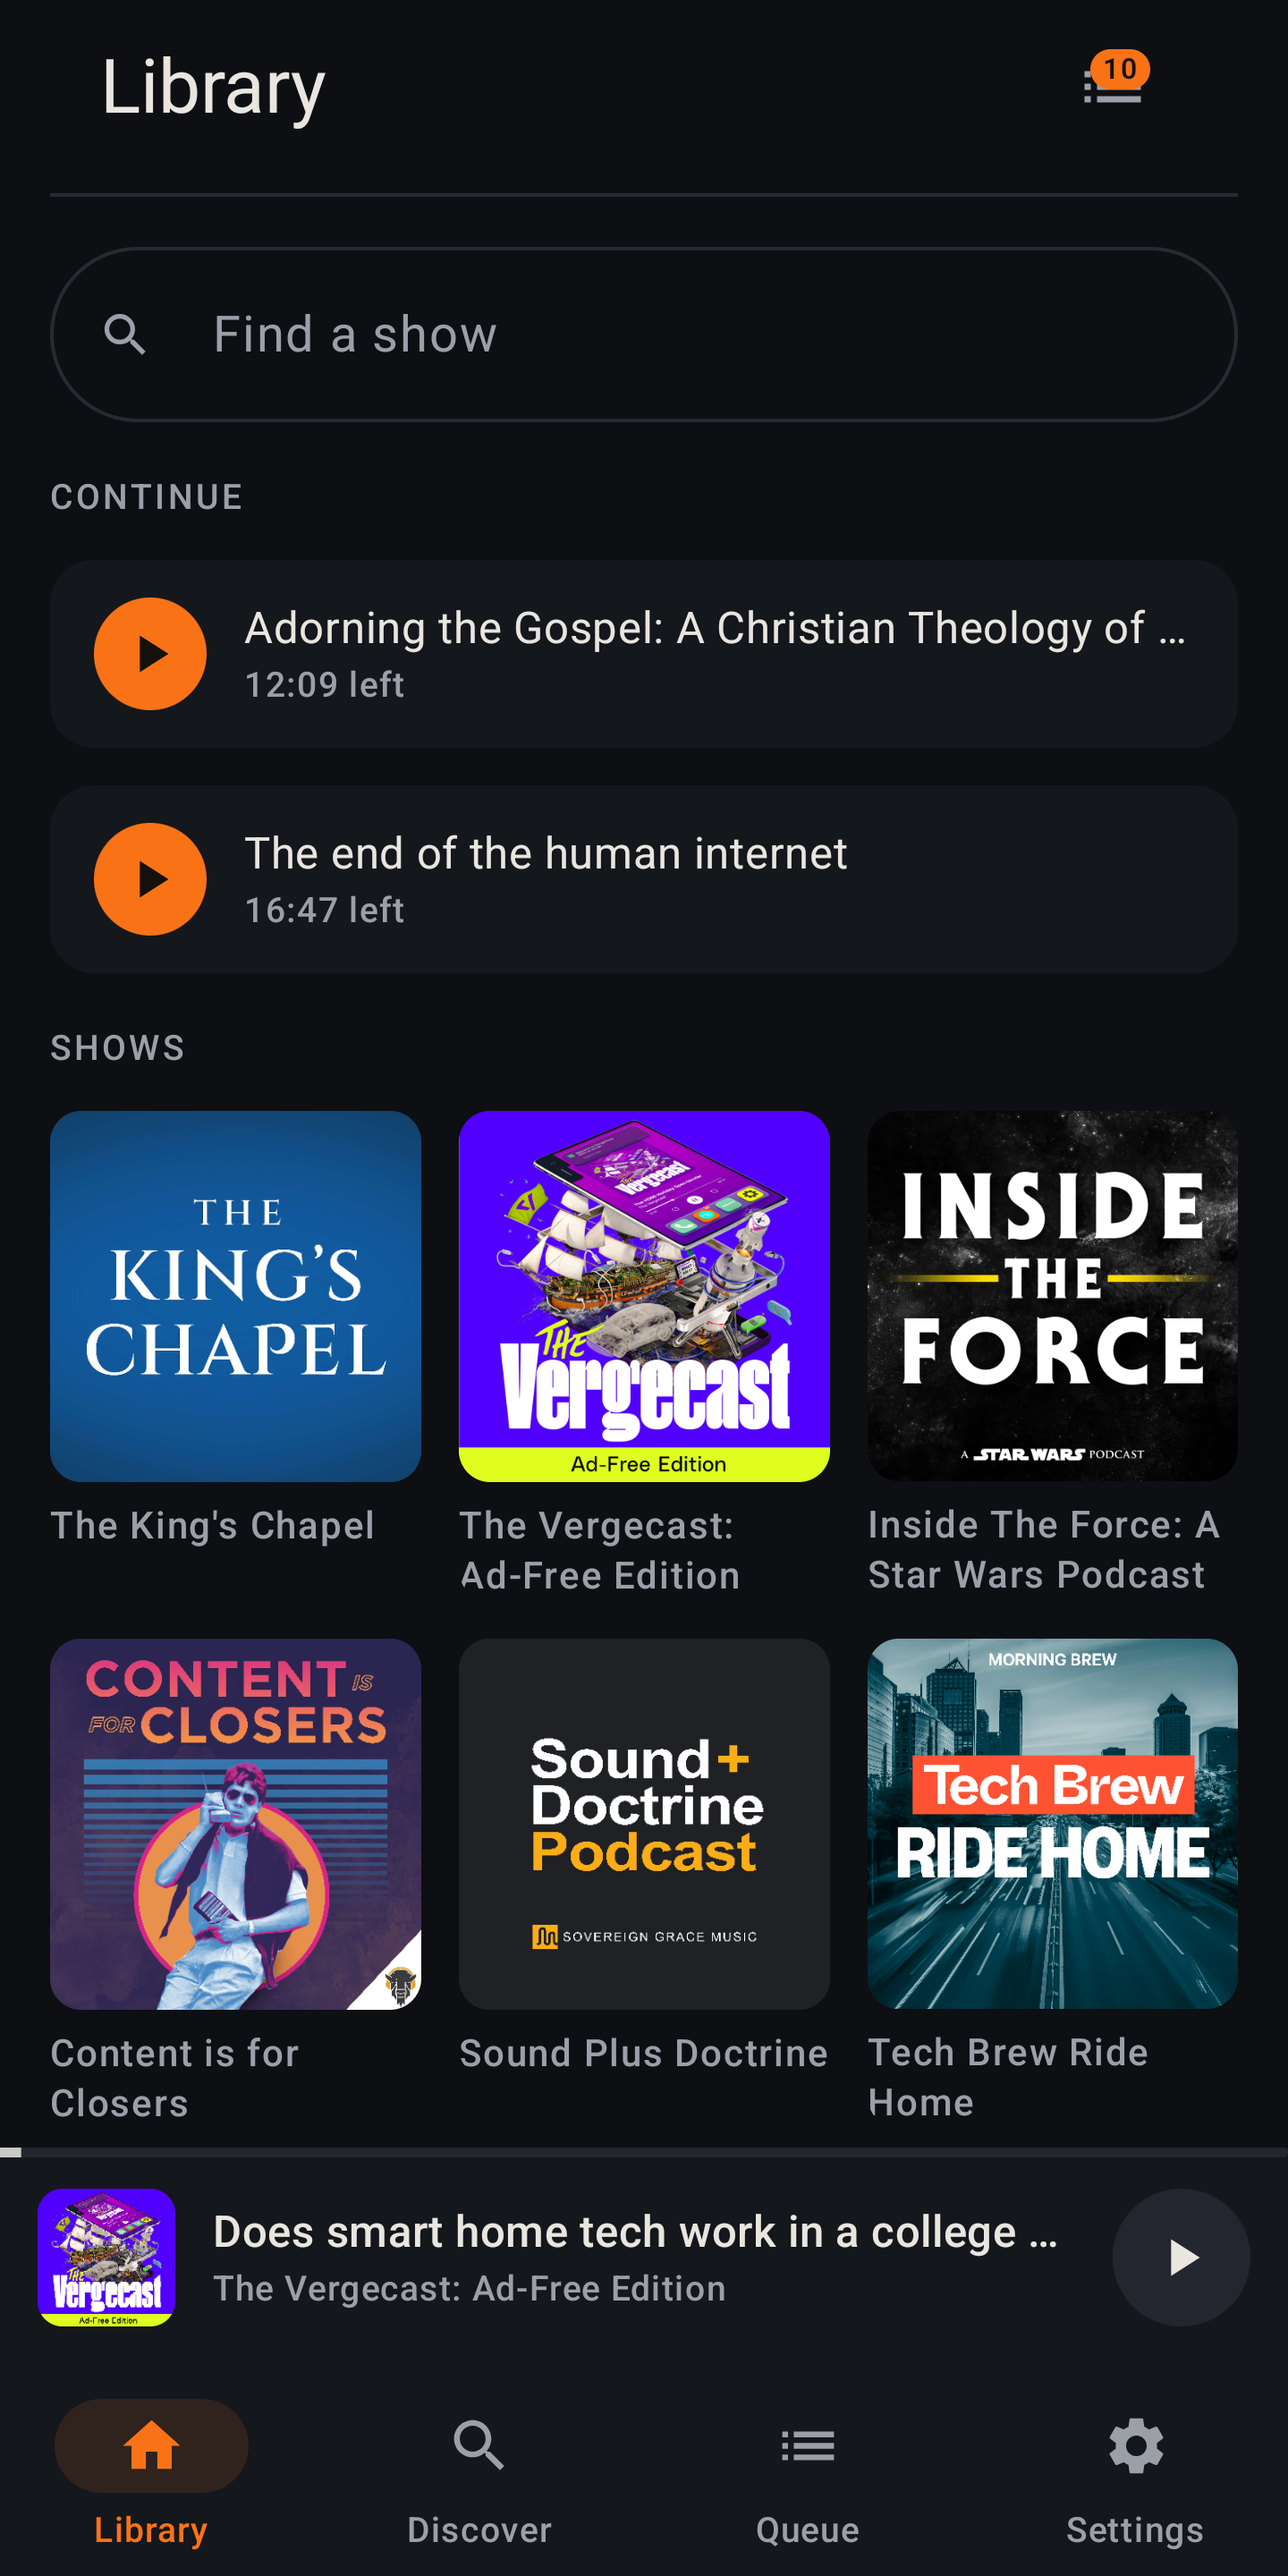
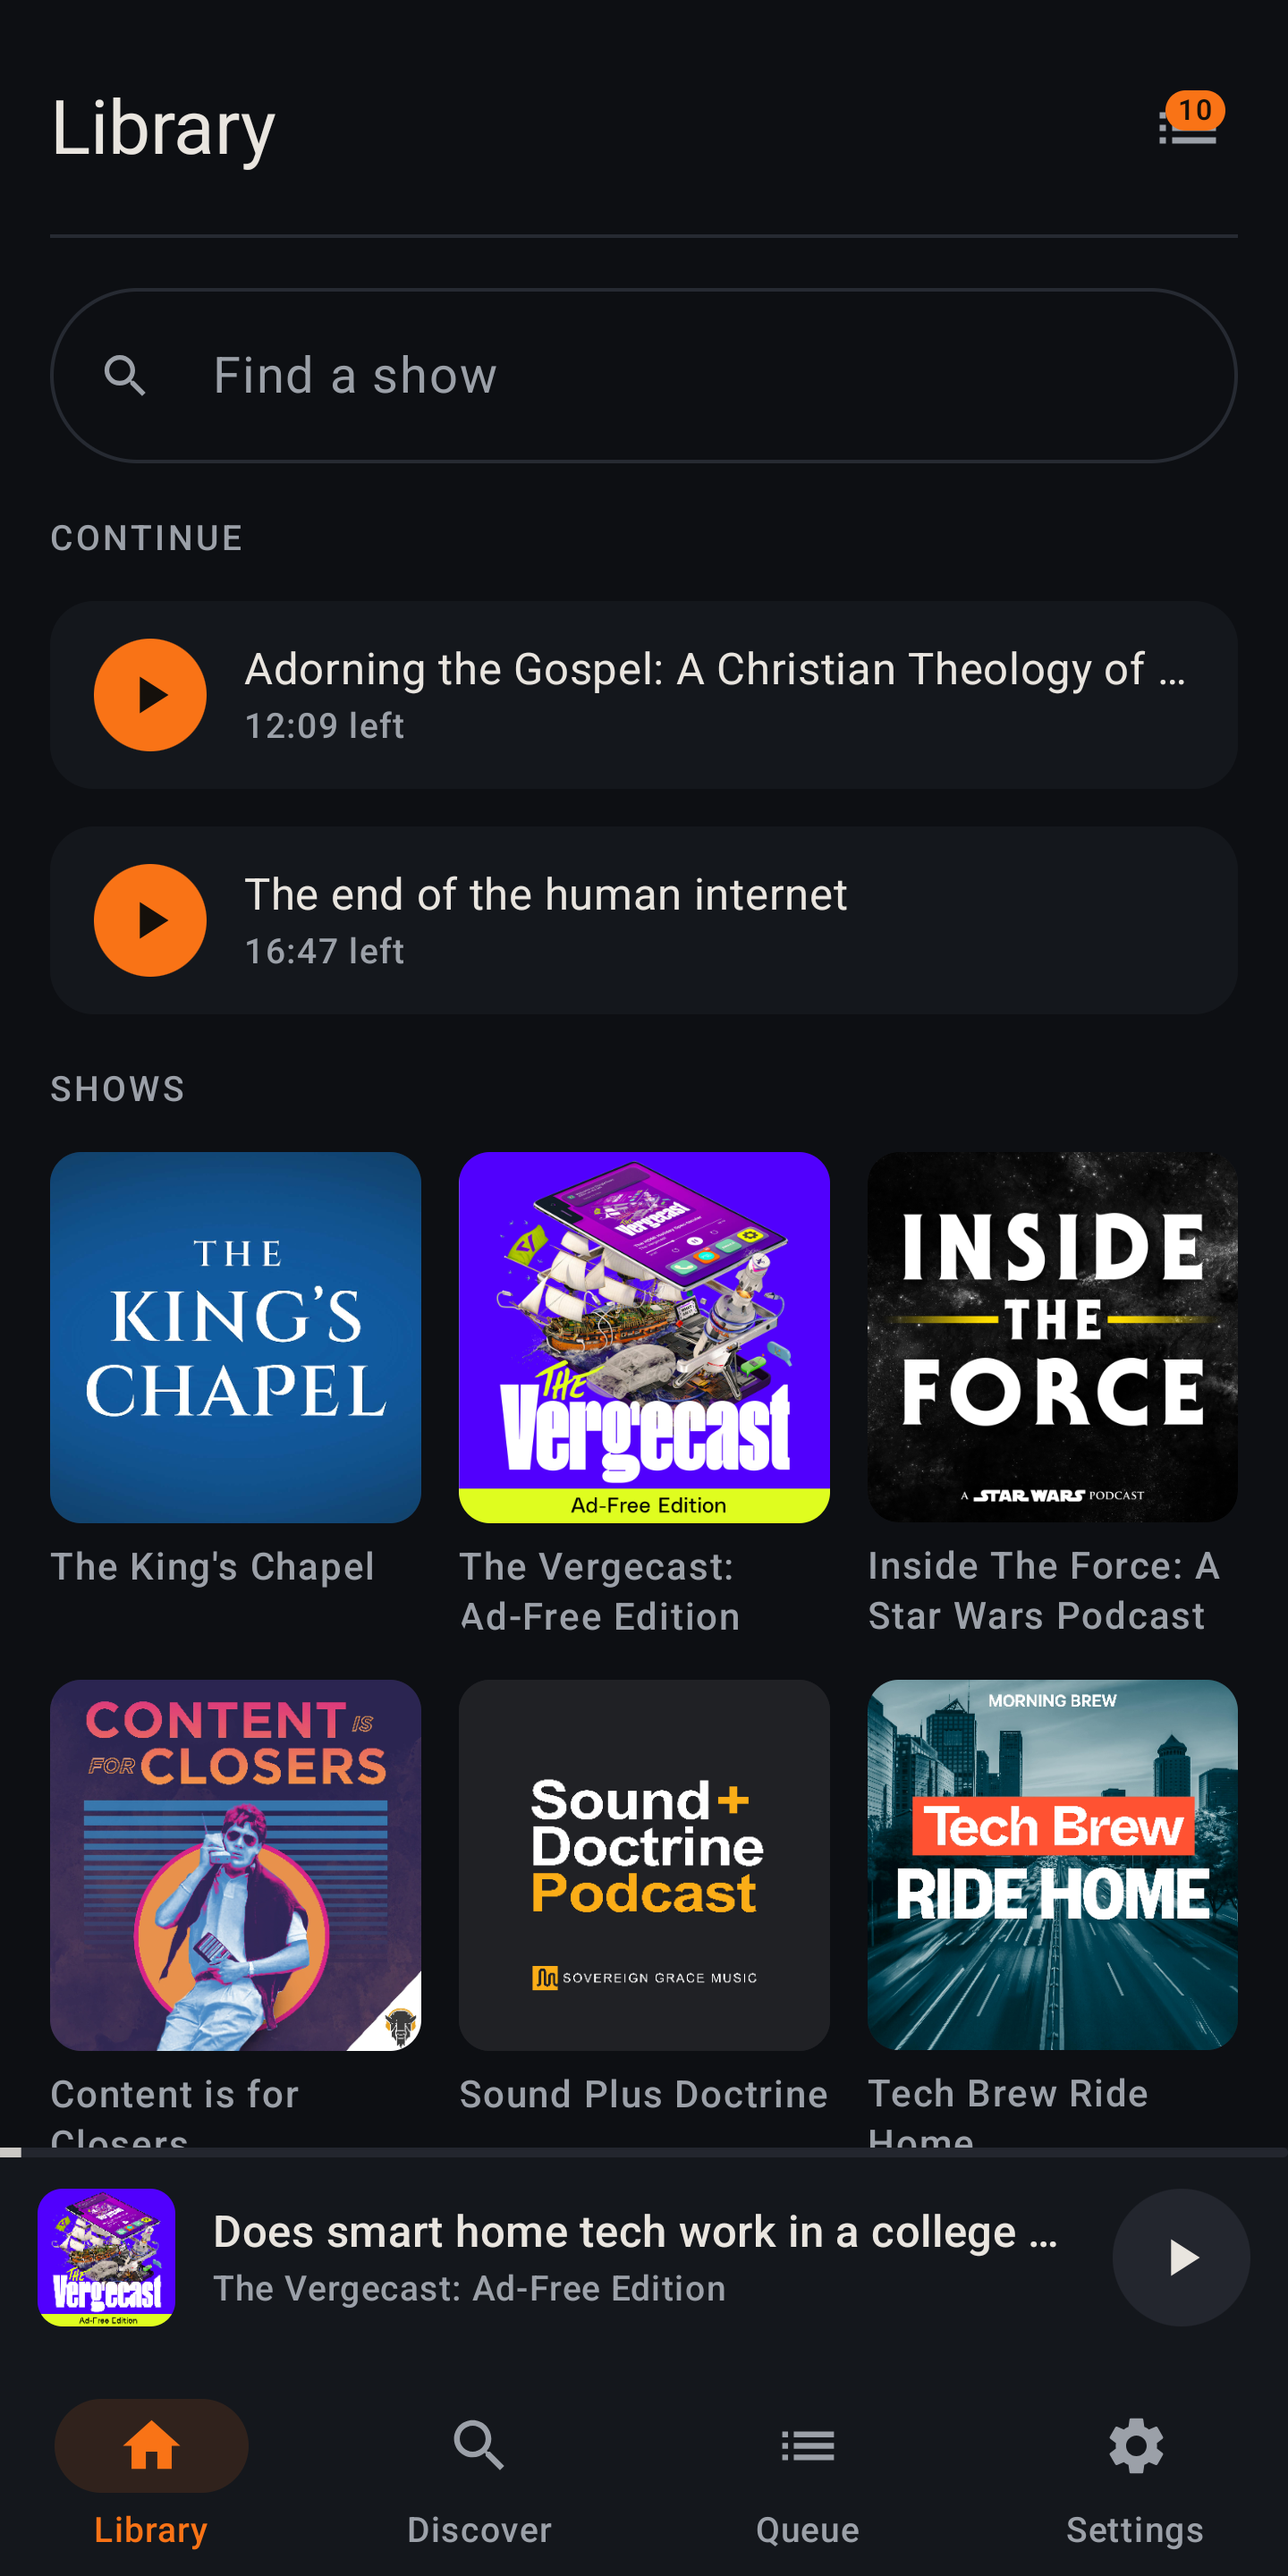
The queue button stops moving when you open the player
It sat 47dp from the screen edge in the library and 23dp in the player, so
it jumped as you crossed between them. Two causes stacked: the library's
grid insets every item by 16dp and the header then added its own 16dp on
top, and the header's action used a 16dp end inset where the player's uses
8dp.

ScreenHeader now takes the inset its container already applies, and works
out the rest itself: the title lands at 16dp to line up with the content
below it, and the action steps back out to sit 8dp from the edge wherever
it is used. Both queue buttons now measure 23.4dp from the right edge.

An earlier attempt let the header bleed past its container's padding by
measuring wider and placing itself negative. It shifted the whole header
left instead of extending it — title jammed against the edge at 2dp — so it
is gone; telling the header what it is inset by is both simpler and does
not depend on how a lazy grid treats an over-wide item.

Library screenshot re-shot; the others do not use this header.

diff --git a/kmp/androidApp/src/main/java/app/filterpod/ui/components/Common.kt b/kmp/androidApp/src/main/java/app/filterpod/ui/components/Common.kt
@@ -34,6 +34,8 @@ import androidx.compose.ui.text.font.FontWeight
 import androidx.compose.ui.text.style.TextOverflow
 import androidx.compose.ui.text.PlatformTextStyle
 import androidx.compose.ui.text.style.LineHeightStyle
+import androidx.compose.foundation.layout.offset
+import androidx.compose.ui.unit.Dp
 import androidx.compose.ui.unit.dp
 import androidx.compose.ui.unit.sp
 import app.filterpod.ui.Ember
@@ -65,12 +67,31 @@ fun Artwork(
 
 /** The screens' shared header row: big title on a hairline, optional action. */
 @Composable
-fun ScreenHeader(title: String, action: (@Composable () -> Unit)? = null) {
+fun ScreenHeader(
+    title: String,
+    /**
+     * Horizontal inset the container already applies to this header.
+     *
+     * Headers live inside lists whose contentPadding insets every item, so the header
+     * cannot assume it starts at the screen edge. Told what it is already inset by, it
+     * can put the title at 16dp and the action at the same distance from the edge the
+     * player's header uses — so the queue button does not jump when you open the
+     * player.
+     */
+    containerInset: Dp = 0.dp,
+    action: (@Composable () -> Unit)? = null,
+) {
+    // Where the action's touch target should sit, measured from the screen edge.
+    val actionInset = 8.dp
     Column {
         Row(
             Modifier
                 .fillMaxWidth()
-                .padding(horizontal = 16.dp, vertical = 10.dp),
+                .padding(
+                    start = (16.dp - containerInset).coerceAtLeast(0.dp),
+                    end = (actionInset - containerInset).coerceAtLeast(0.dp),
+                )
+                .padding(vertical = 10.dp),
             // Centre, not bottom: the action is an IconButton with a 48dp touch target
             // and its glyph centred inside, so bottom-aligning the two boxes floated
             // the icon well above the title it sits beside.
@@ -93,7 +114,13 @@ fun ScreenHeader(title: String, action: (@Composable () -> Unit)? = null) {
                     ),
                 ),
             )
-            if (action != null) action()
+            if (action != null) {
+                // When the container insets further than the action wants to be, the
+                // action steps back out toward the edge.
+                Box(Modifier.offset(x = (containerInset - actionInset).coerceAtLeast(0.dp))) {
+                    action()
+                }
+            }
         }
         HairlineDivider()
     }

diff --git a/kmp/androidApp/src/main/java/app/filterpod/ui/screens/LibraryScreen.kt b/kmp/androidApp/src/main/java/app/filterpod/ui/screens/LibraryScreen.kt
@@ -187,8 +187,8 @@ fun LibraryScreen(nav: NavState) {
             ),
         ) {
             item(key = "header", span = { GridItemSpan(maxLineSpan) }) {
-                Box(Modifier.padding(start = 0.dp)) {
-                    ScreenHeader("Library") {
+                Box {
+                    ScreenHeader("Library", containerInset = 16.dp) {
                         QueueBadgeButton(queue.size) { nav.selectTab(Screen.Queue) }
                     }
                 }

diff --git a/kmp/androidApp/src/main/java/app/filterpod/ui/screens/DiscoverScreen.kt b/kmp/androidApp/src/main/java/app/filterpod/ui/screens/DiscoverScreen.kt
@@ -175,7 +175,7 @@ fun DiscoverScreen(nav: NavState, initialTerm: String, discovery: Discovery) {
         contentPadding = PaddingValues(start = 16.dp, end = 16.dp, bottom = 24.dp),
     ) {
         item(key = "header", span = { GridItemSpan(maxLineSpan) }) {
-            ScreenHeader("Discover")
+            ScreenHeader("Discover", containerInset = 16.dp)
         }
 
         item(key = "search", span = { GridItemSpan(maxLineSpan) }) {
